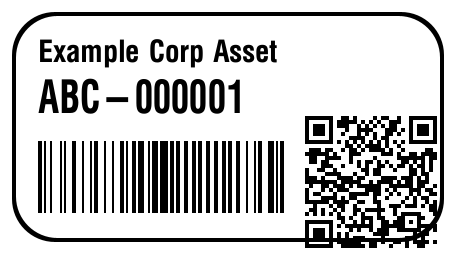
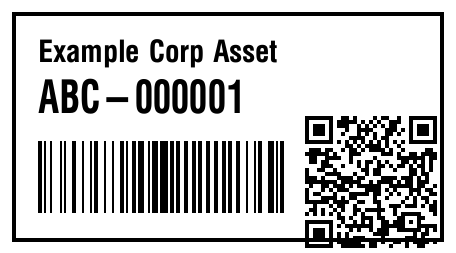
template: add square-border variant alongside rounded, drop shipped aliases
Each asset-tag layout now has three variants - no border, square
border, rounded border - all sharing identical field placement, so
switching between them never reflows content:

  2x1 (code128 only):        001 none, 002 square, 005 rounded
  2x1 (contact + code128):   003 none, 004 square, 006 rounded
  2.25x1.25 (QR):            001 none, 002 square, 003 rounded

The rounded-border content from the previous commit moved to 005/006/
003; 002/004/002 are restored square-border versions (content from git
history at c286cca) repositioned to match their no-border siblings.

Also drops the [aliases] table from zplkit.toml.example - aliases are
a local, per-deployment convenience, not something the repo should
ship opinions about. zplkit.toml.example now shows the TOML syntax as
a comment only; README usage examples and the "Adding a template"
steps updated to match.

Previews regenerated with zplkit.toml.example's placeholder values.

diff --git a/README.md b/README.md
@@ -26,24 +26,25 @@ go build -o zplkit ./cmd/zplkit
 
 ```sh
 cp zplkit.toml.example zplkit.toml
-$EDITOR zplkit.toml   # set company_name, asset_url, aliases
+$EDITOR zplkit.toml   # set company_name, asset_url, and optionally your own [aliases]
 ```
 
 `zplkit.toml` is git-ignored — it's where your real company name, asset
 URL, default printer backend/endpoint, template aliases, and declared
 template categories live. `zplkit.toml.example` stays in the repo as the
-documented template for it.
+documented template for it. No aliases ship by default (including
+`default`, the `-t` flag's own default value) — add your own short names
+for whichever templates you actually use.
 
 ## Usage
 
 `zplkit` has four subcommands: `print`, `admin`, `version`, `help`.
 
 ```sh
-./zplkit print TAG                           # render the default template and print it
-./zplkit print -t qr TAG                      # render by alias
 ./zplkit print -t asset-tag/2x1/001 TAG       # render by explicit path
+./zplkit print -t default TAG                 # render by alias, if you've defined one
 ./zplkit print -t asset-tag/2x1/001 -f Tag=TAG  # TAG via --field instead of positionally
-./zplkit print -d TAG                         # dry run: write rendered ZPL to stdout
+./zplkit print -t asset-tag/2x1/001 -d TAG    # dry run: write rendered ZPL to stdout
 ./zplkit print -l                             # list templates, categories, and aliases
 ./zplkit admin -d setup/set-clock.zpl         # dry run: write a raw ZPL file to stdout
 ./zplkit admin setup/set-clock.zpl            # send a raw ZPL file straight to the printer
@@ -133,14 +134,21 @@ informational record of which category directories are in use, shown by
 
 ### `asset-tag`
 
-| Preview | Path | Fields | Default alias |
-| --- | --- | --- | --- |
-| ![asset-tag/2x1/001](templates/asset-tag/2x1/001.png) | `asset-tag/2x1/001` | company name, Code 128, human-readable tag | `default` |
-| ![asset-tag/2x1/002](templates/asset-tag/2x1/002.png) | `asset-tag/2x1/002` | border, company name, Code 128, human-readable tag | `default-border` |
-| ![asset-tag/2x1/003](templates/asset-tag/2x1/003.png) | `asset-tag/2x1/003` | company name, return contact, Code 128, tag | `field` |
-| ![asset-tag/2x1/004](templates/asset-tag/2x1/004.png) | `asset-tag/2x1/004` | border, company name, return contact, Code 128, tag | `field-border` |
-| ![asset-tag/2.25x1.25/001](templates/asset-tag/2.25x1.25/001.png) | `asset-tag/2.25x1.25/001` | company name, tag, Code 128, QR to asset URL | `qr` |
-| ![asset-tag/2.25x1.25/002](templates/asset-tag/2.25x1.25/002.png) | `asset-tag/2.25x1.25/002` | border, company name, tag, Code 128, QR to asset URL | `qr-border` |
+| Preview | Path | Fields |
+| --- | --- | --- |
+| ![asset-tag/2x1/001](templates/asset-tag/2x1/001.png) | `asset-tag/2x1/001` | company name, Code 128, human-readable tag |
+| ![asset-tag/2x1/002](templates/asset-tag/2x1/002.png) | `asset-tag/2x1/002` | square border, company name, Code 128, human-readable tag |
+| ![asset-tag/2x1/003](templates/asset-tag/2x1/003.png) | `asset-tag/2x1/003` | company name, return contact, Code 128, tag |
+| ![asset-tag/2x1/004](templates/asset-tag/2x1/004.png) | `asset-tag/2x1/004` | square border, company name, return contact, Code 128, tag |
+| ![asset-tag/2x1/005](templates/asset-tag/2x1/005.png) | `asset-tag/2x1/005` | rounded border, company name, Code 128, human-readable tag |
+| ![asset-tag/2x1/006](templates/asset-tag/2x1/006.png) | `asset-tag/2x1/006` | rounded border, company name, return contact, Code 128, tag |
+| ![asset-tag/2.25x1.25/001](templates/asset-tag/2.25x1.25/001.png) | `asset-tag/2.25x1.25/001` | company name, tag, Code 128, QR to asset URL |
+| ![asset-tag/2.25x1.25/002](templates/asset-tag/2.25x1.25/002.png) | `asset-tag/2.25x1.25/002` | square border, company name, tag, Code 128, QR to asset URL |
+| ![asset-tag/2.25x1.25/003](templates/asset-tag/2.25x1.25/003.png) | `asset-tag/2.25x1.25/003` | rounded border, company name, tag, Code 128, QR to asset URL |
+
+Each border/no-border pair places its fields identically — the border
+variants only add the `^GB` border graphic, never move content — so
+switching between no-border/square/rounded doesn't reflow a label.
 
 ### Template style
 
@@ -212,9 +220,10 @@ where its value came from.
    filename itself won't say. Introducing a brand-new category also means
    adding its own `###` subsection and table (see `### asset-tag` above),
    and adding its name to `categories` in `zplkit.toml.example`.
-5. Optionally add an `<alias> = "<category>/<size>/<number>"` line under
-   `[aliases]` in `zplkit.toml.example` so others get a short name for it
-   too.
+5. If you want a short name for it, add an `<alias> =
+   "<category>/<size>/<number>"` line under `[aliases]` in your own
+   `zplkit.toml` — aliases are a local, per-deployment convenience and
+   don't belong in `zplkit.toml.example`.
 
 ## Printer provisioning (`admin`)
 
